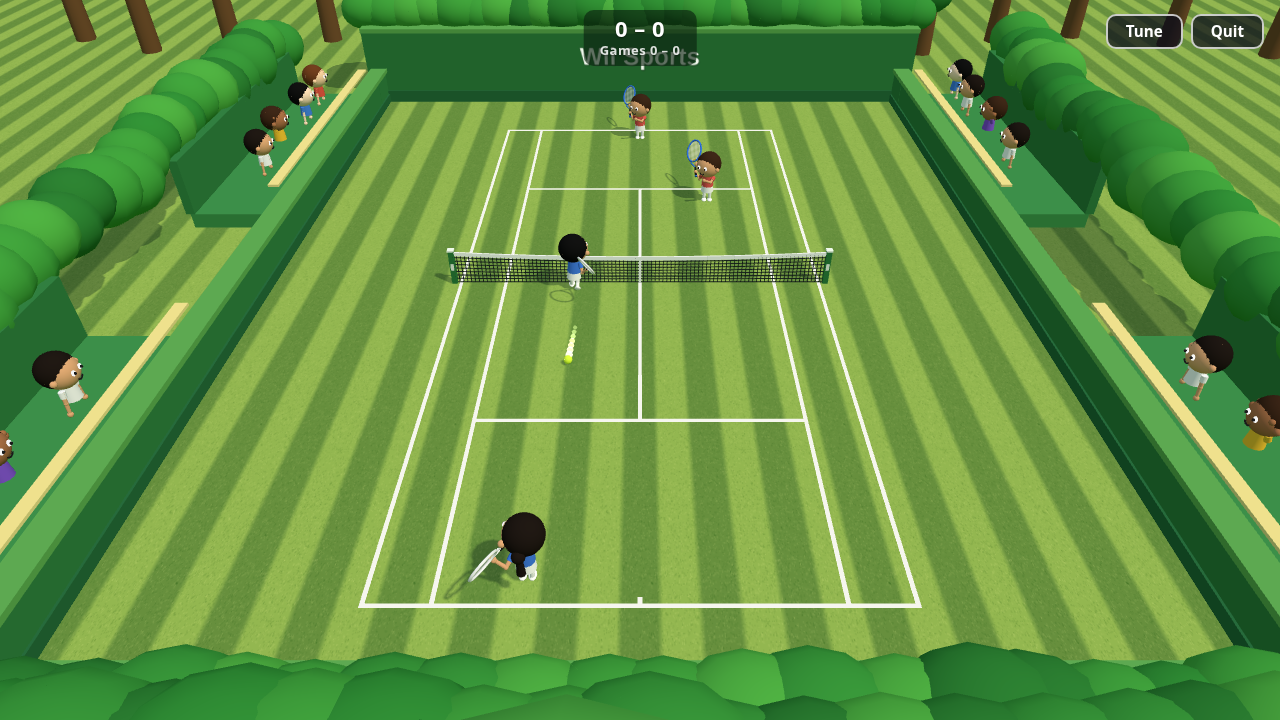
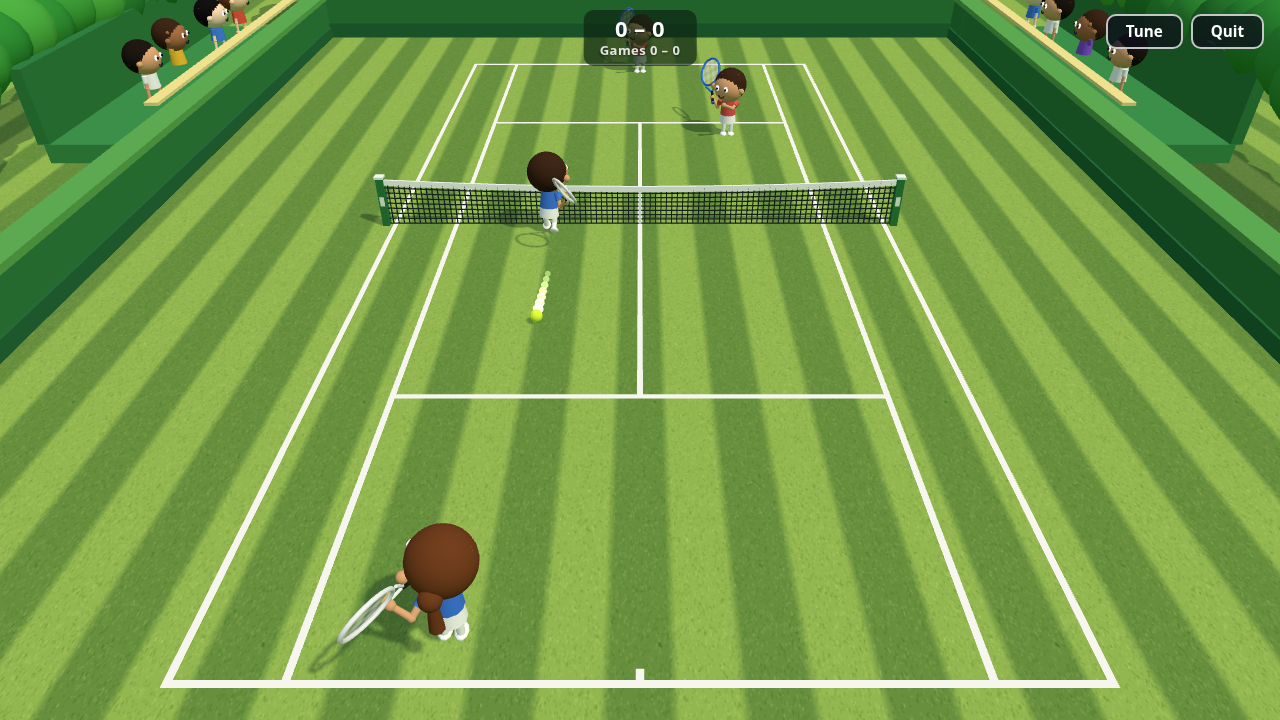
Lower the tennis camera and pull it closer to the court.
The view sits 9 m up and 7 m behind the baseline so the court fills the frame while both baseline players stay visible.

diff --git a/host/src/games/tennis/scene.js b/host/src/games/tennis/scene.js
@@ -1074,14 +1074,14 @@ function animatePlayer(state, pl, view, ball, dt, now) {
 }
 
 const BASELINE_PLAYER_Z = 11.185;
-// One camera per side, never more than two panes. It sits back and above the baseline so a
-// half-width pane still holds the whole doubles court and both players on that side.
+// One camera per side, never more than two panes. It sits lower and closer than the old
+// overhead view, and a half-width pane still holds the doubles sidelines.
 const COURT_CAMERA = {
-  y: 14,
-  behindPlayer: 11,
-  fov: 46,
-  lookY: 0.2,
-  lookAhead: 18,
+  y: 9,
+  behindPlayer: 7,
+  fov: 44,
+  lookY: 0.6,
+  lookAhead: 12,
 };
 
 function courtCameraFor(side) {

diff --git a/.claude/skills/verify/features/tennis-rally.md b/.claude/skills/verify/features/tennis-rally.md
@@ -4,7 +4,7 @@ Two phones join one host and start a one-game singles match. The court splits do
 
 ## Sub-features
 
-- `split-court`: Ada against Bea shows `.tennis-split`, `.tennis-court` `data-split` `1`, and `data-cam-y` between 12 and 16. The score sits over the join.
+- `split-court`: Ada against Bea shows `.tennis-split`, `.tennis-court` `data-split` `1`, and `data-cam-y` between 7 and 11. The score sits over the join.
 - `backhand-grip`: a `deviceorientation` event with `gamma` 80 sends one `grip` of `backhand` from Bea's phone.
 - `chase`: after Ada tosses and serves, `window.__tennisView()` shows a flight or a called point, or a player whose `speed` is above 0.5.
 
@@ -31,7 +31,7 @@ Steps the script performs:
 
 - Join Ada and Bea, press `Select Game`, and click the Tennis card.
 - Expect `.tennis-format` `1v1`. Click `.tennis-length[data-best-of="1"]`, then `.tennis-start`.
-- Expect `.tennis-court canvas` and `.tennis-split`. Expect `data-split` `1`, `data-cam-y` from 12 to 16, and `.tennis-score` centered. Capture `host-split`.
+- Expect `.tennis-court canvas` and `.tennis-split`. Expect `data-split` `1`, `data-cam-y` from 7 to 11, and `.tennis-score` centered. Capture `host-split`.
 - On Bea's page, dispatch one `deviceorientation` with `beta` 90 and `gamma` 80. Expect one outbound `grip` with `hand` `backhand`.
 - On Ada's page, dispatch the same toss flick and forehand swing the tennis-match drive uses.
 - Poll `window.__tennisView()` (read only) until `phase` is `flight` or `called`, or a player's `speed` is above 0.5. Capture `host-chase`.
